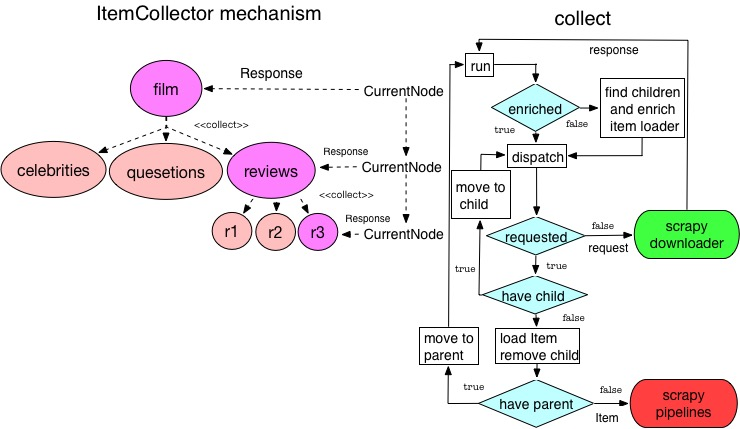
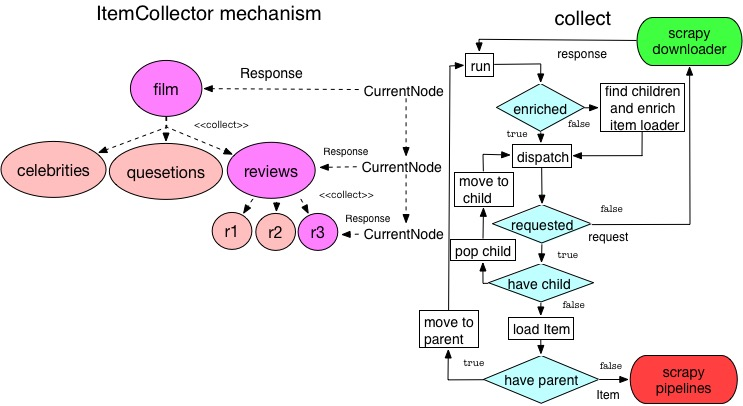
refact

Changed region(s): [[0.0, 0.0296, 1.0, 1.0], [0.1243, 0.0, 0.4351, 0.0591], [0.7459, 0.0296, 0.8392, 0.0591]]

diff --git a/structor/item_collector.py b/structor/item_collector.py
@@ -60,11 +60,8 @@ class Node(object):
             self.req_meta.clear()
             return Request(meta=meta, callback="parse_next", errback="errback", **kw), self
         else:
-            for child in self.children[:]:
-                if child.req_meta:
-                    return child.dispatch(response)
-                else:
-                    self.children.remove(child)
+            if self.children:
+                return self.children.pop().dispatch(response)
         return None if self.do_not_load else self.item_loader.load_item(), self
 
     def __str__(self):
@@ -72,6 +69,40 @@ class Node(object):
             self.prop_name, self.item_loader, self.enricher)
 
     __repr__ = __str__
+
+
+class ItemCollector(object):
+    """
+    ItemCollector:
+    """
+
+    def __init__(self, root):
+        self.root = root
+        self.current_node = root
+
+    def collect(self, response, spider):
+        """
+        item_collector收集的开始，每次收集返回一个请求或者item。
+        调用当前节点的run方法，返回一个请求/item/None及其被产生的节点(哪个节点产生了这个请求/item/None)。
+        当返回为Item时，表示该节点及其子节点已经完成所有操作。将其赋值父节点的item_loader。
+        当返回为Request时，表示该节点产生了一个新请求，返回该请求交付scrapy调度。
+        当返回为None时，表示该节点已完成，但与其父节点共用item_loader，此时item_loader不会生成item。将当前节点指针指向其父节点。
+        :param response:
+        :param spider:
+        :return:
+        """
+        req_or_item = None
+        while not req_or_item:
+            req_or_item, self.current_node = self.current_node.run(response, spider)
+            if isinstance(req_or_item, Item):
+                # 存在parent，置req_or_item为None，循环直到遇见一个request，否则跳出循环返回Item。
+                if self.current_node.parent:
+                    self.current_node.parent.item_loader.add_value(self.current_node.prop_name, req_or_item)
+                    req_or_item = None
+                self.current_node = self.current_node.parent
+            elif req_or_item is None:
+                self.current_node = self.current_node.parent
+        return req_or_item
 
 
 class RequestTree(object):
@@ -128,37 +159,3 @@ class RequestTree(object):
             self.prop_name, self.item_loader, self.enricher)
 
     __repr__ = __str__
-
-
-class ItemCollector(object):
-    """
-    ItemCollector:
-    """
-
-    def __init__(self, root):
-        self.root = root
-        self.current_node = root
-
-    def collect(self, response, spider):
-        """
-        item_collector收集的开始，每次收集返回一个请求或者item。
-        调用当前节点的run方法，返回一个请求/item/None及其被产生的节点(哪个节点产生了这个请求/item/None)。
-        当返回为Item时，表示该节点及其子节点已经完成所有操作。将其赋值父节点的item_loader。
-        当返回为Request时，表示该节点产生了一个新请求，返回该请求交付scrapy调度。
-        当返回为None时，表示该节点已完成，但与其父节点共用item_loader，此时item_loader不会生成item。将当前节点指针指向其父节点。
-        :param response:
-        :param spider:
-        :return:
-        """
-        req_or_item = None
-        while not req_or_item:
-            req_or_item, self.current_node = self.current_node.run(response, spider)
-            if isinstance(req_or_item, Item):
-                # 存在parent，置req_or_item为None，循环直到遇见一个request，否则跳出循环返回Item。
-                if self.current_node.parent:
-                    self.current_node.parent.item_loader.add_value(self.current_node.prop_name, req_or_item)
-                    req_or_item = None
-                self.current_node = self.current_node.parent
-            elif req_or_item is None:
-                self.current_node = self.current_node.parent
-        return req_or_item

diff --git a/structor/__init__.py b/structor/__init__.py
@@ -3,7 +3,7 @@ from .spider_feeder import SpiderFeeder
 from .check_status import main
 from .start_project import start as start_project, create as create_spider
 
-VERSION = '1.2.1'
+VERSION = '1.2.2'
 
 AUTHOR = "cn"
 

diff --git a/setup.py b/setup.py
@@ -5,7 +5,7 @@ except:
     from distutils.core import setup
 
 
-VERSION = '1.2.1'
+VERSION = '1.2.2'
 
 AUTHOR = "cn"
 
